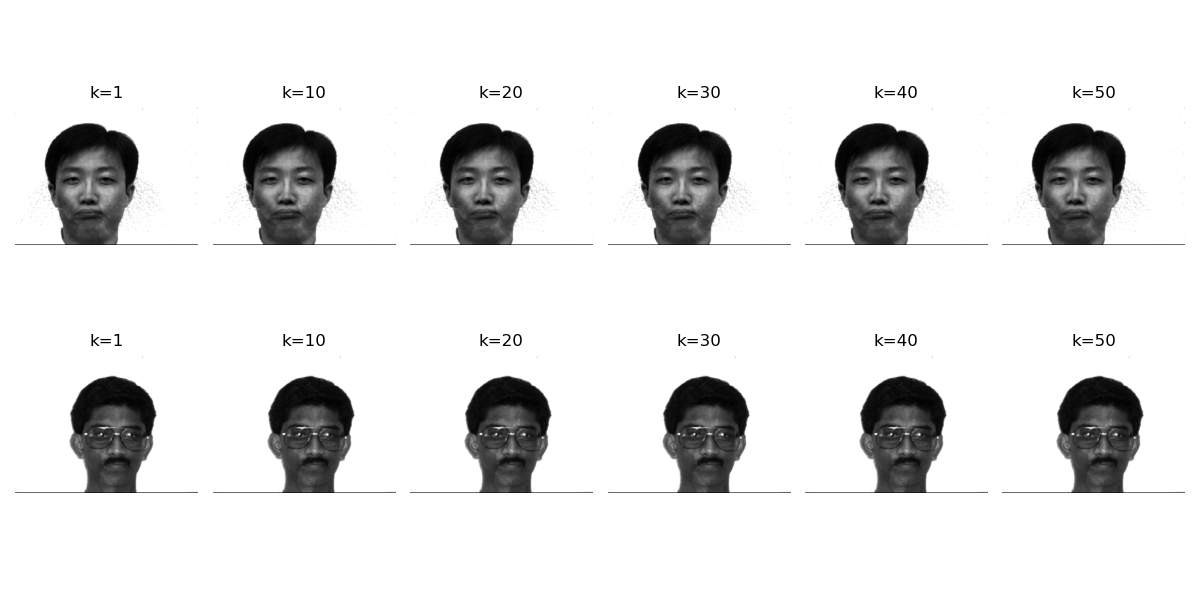
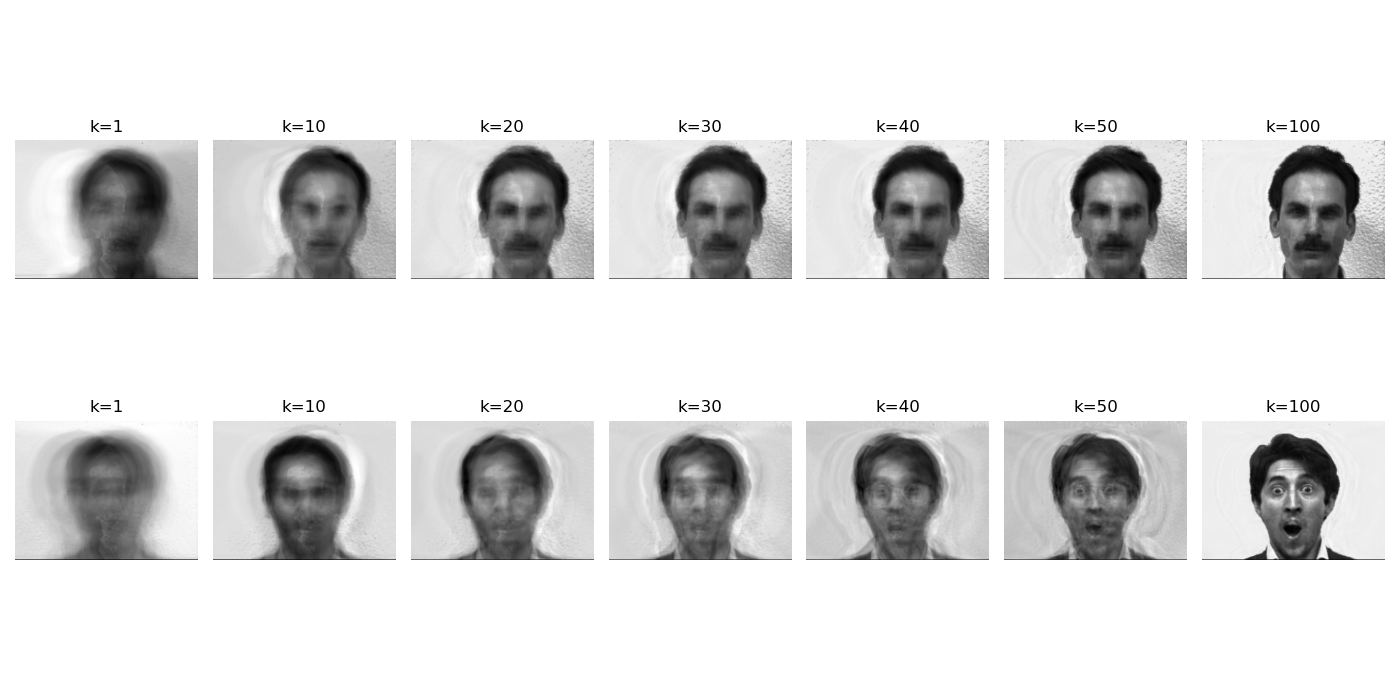
img1 works and im messing around with img2

diff --git a/Homework 5/assignment5.py b/Homework 5/assignment5.py
@@ -140,24 +140,30 @@ def qd3_visualize(dataset:np.ndarray, pca:PCA, dim_x = 243, dim_y = 320):
     """
     #get two random images from the dataset
     img_idx1, img_idx2 = np.random.choice(len(dataset), size=2, replace=False)
-    img1 = dataset[img_idx1]
-    img2 = dataset[img_idx2]
+    #img1 = dataset[img_idx1]
+    #img2 = dataset[img_idx2]
     # set number of components to visualize
-    num_components = [1, 10, 20, 30, 40, 50]
+    num_components = [1,10, 20, 30, 40, 50, 100]
 
     #plot first
-    plt.figure(figsize=(12, 6))
+    plt.figure(figsize=(14, 7))
     for i, k in enumerate(num_components):
-        img1_reconstructed = qd2_reconstruct(qd1_project(img1.reshape(1, -1), pca)[:k], pca).reshape(dim_x, dim_y)
-        plt.subplot(2, 6, i+1)
+        #train pcs for num of components
+        
+        pca1 = PCA(n_components=k)
+        pca1.fit(dataset)
+        #work with img1
+        img1_reconstructed = qd2_reconstruct(qd1_project(dataset, pca1)[img_idx1], pca1).reshape(dim_x, dim_y)
+        plt.subplot(2, 7, i+1)
         plt.imshow(img1_reconstructed, cmap='gray')
         plt.axis('off')
         plt.title(f'k={k}')
 
-    #second image
-    for i, k in enumerate(num_components):
-        img2_reconstructed = qd2_reconstruct(qd1_project(img2.reshape(1, -1), pca)[:k], pca).reshape(dim_x, dim_y)
-        plt.subplot(2, 6, i+7)
+
+        print(qd2_reconstruct(qd1_project(dataset, pca)[img_idx2], pca))
+        #plot image 2
+        img2_reconstructed =  qd2_reconstruct(qd1_project(dataset, pca)[img_idx2][:k], pca)
+        plt.subplot(2, 7, i+8)
         plt.imshow(img2_reconstructed, cmap='gray')
         plt.axis('off')
         plt.title(f'k={k}')
@@ -242,14 +248,14 @@ if __name__ == "__main__":
     dataset = qa2_preprocess(faces)
     pca, eig_values, eig_vectors = qa3_calc_eig_val_vec(dataset, len(dataset))
 
-    qb_plot_written(eig_values)
+    #qb_plot_written(eig_values)
 
     num = len(dataset)
     org_dim_eig_faces = qc1_reshape_images(pca)
-    qc2_plot(org_dim_eig_faces)
+    #qc2_plot(org_dim_eig_faces)
 
     qd3_visualize(dataset, pca)
     best_k, result = qe1_svm(dataset, y_target, pca)
     print(best_k, result)
-    best_k, result = qe2_lasso(dataset, y_target, pca)
+    #best_k, result = qe2_lasso(dataset, y_target, pca)
     print(best_k, result)
